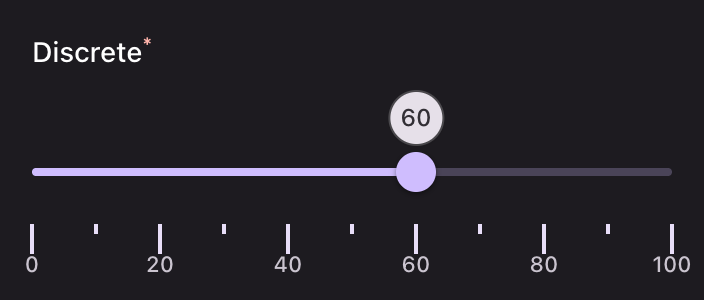
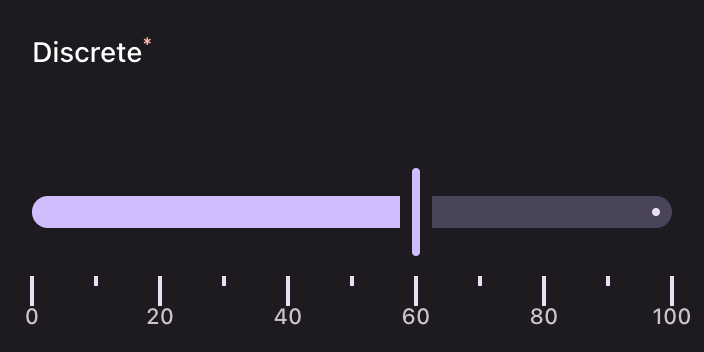
docs: recapture the sliders and document the vertical ones

diff --git a/docs-assets/screenshots/schema.js b/docs-assets/screenshots/schema.js
@@ -425,6 +425,26 @@ export default {
         url: 'components/sliders',
         selector: '.shot-slider-range',
     },
+    /* The value indicator is raised by the handle rather than standing over it,
+       so the pointer has to stay on the handle for it to be in the frame. */
+    'sliders/tooltip': {
+        url: 'components/sliders',
+        selector: '.shot-slider-discrete',
+        hover: true,
+        before: (page) => page.hover('.shot-slider-discrete .noUi-handle'),
+    },
+    'sliders/vertical': {
+        url: 'components/sliders',
+        selector: '.shot-slider-vertical',
+    },
+    'sliders/vertical-discrete': {
+        url: 'components/sliders',
+        selector: '.shot-slider-vertical-discrete',
+    },
+    'sliders/vertical-range': {
+        url: 'components/sliders',
+        selector: '.shot-slider-vertical-range',
+    },
 
     'snackbar/success': {
         url: 'components/snackbar',

diff --git a/docs/forms/slider.md b/docs/forms/slider.md
@@ -2,7 +2,7 @@
 
 ## Continuous
 
-<Shot name="sliders/continuous" alt="A slider with a filled track and a round handle" />
+<Shot name="sliders/continuous" alt="A slider with a filled track and a narrow bar for a handle" />
 
 ```php
 use Filament\Forms\Components\Slider;
@@ -14,7 +14,7 @@ Slider::make('volume')
 
 ## Discrete
 
-<Shot name="sliders/discrete" alt="A slider marked at every tenth value with a tooltip over the handle" />
+<Shot name="sliders/discrete" alt="A slider marked at every tenth value" />
 
 ```php
 use Filament\Forms\Components\Slider\Enums\PipsMode;
@@ -29,6 +29,13 @@ Slider::make('rating')
     ->steppedPips();
 ```
 
+### Value indicator
+
+<Shot name="sliders/tooltip" alt="The same slider with the value raised above the handle it belongs to" />
+
+`tooltips()` raises the value while the handle is hovered, dragged or focused from the keyboard,
+rather than standing over it at rest.
+
 ## Range
 
 <Shot name="sliders/range" alt="A slider with two handles and the span between them filled" />
@@ -40,3 +47,20 @@ Slider::make('price')
     ->minDifference(10)
     ->tooltips();
 ```
+
+## Vertical
+
+The same three stood on end, with the value growing upward.
+
+<Shot name="sliders/vertical" alt="A vertical slider with the lower part of the track filled" />
+
+```php
+Slider::make('volume')
+    ->range(0, 100)
+    ->vertical()
+    ->fillTrack();
+```
+
+<Shot name="sliders/vertical-discrete" alt="A vertical slider with its steps marked down the side" />
+
+<Shot name="sliders/vertical-range" alt="A vertical slider with two handles and the span between them filled" />
